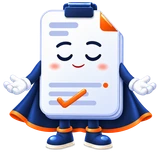
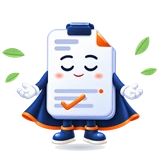
Dex: your new 10-pose set; four new moods (confused, idea, reassure, encourage) placed on matching pages

diff --git a/src/content/guide.ts b/src/content/guide.ts
@@ -4,13 +4,25 @@
  * Dex is not a chat window and answers nothing: each page gets one fixed line of 8 words at most and
  * one mood. The rules, each there because the opposite would hurt a seller:
  * - He never cheers on a page where a seller may be reading bad news: the case, the decoder's result,
- *   the dashboard, the vault, billing and sign-in. Those pages only ever get calm or explaining.
+ *   the dashboard, the vault, billing and sign-in. Those pages never get happy, cheering, idea or
+ *   encourage. Confused is only for our own failures (a save or a decode that did not work), never
+ *   for anything Amazon decided.
  * - A line never promises, predicts or says what Amazon will decide.
  * - A line states no fact: no price, number, time or policy. A fact in the corner would drift away
  *   from the page that owns it, and would repeat the page's own sentence to a screen reader.
  */
 
-export type GuideMood = "hello" | "happy" | "cheering" | "explaining" | "thinking" | "calm";
+export type GuideMood =
+  | "hello"
+  | "happy"
+  | "cheering"
+  | "explaining"
+  | "thinking"
+  | "calm"
+  | "confused"
+  | "idea"
+  | "reassure"
+  | "encourage";
 
 /** A small gesture that goes with a line: a nod to say "that step is done", a hop for a happy moment. */
 export type GuideMotion = "nod" | "hop";
@@ -33,7 +45,8 @@ export const SOBER_PREFIXES = [
   "/auth",
 ] as const;
 
-export const CHEERFUL: readonly GuideMood[] = ["happy", "cheering"];
+/** Moods that celebrate or push: never on a page where a seller may be reading bad news. */
+export const CHEERFUL: readonly GuideMood[] = ["happy", "cheering", "idea", "encourage"];
 
 /** Paths that never get a guide. */
 const NONE = ["/dev", "/api"] as const;
@@ -53,11 +66,11 @@ export const GUIDE = {
     { path: "/billing", mood: "explaining", line: "Your Pass and receipts are here." },
     { path: "/login", mood: "hello", line: "Welcome back." },
     { path: "/signup", mood: "hello", line: "Let us get you set up." },
-    { path: "/forgot-password", mood: "calm", line: "It happens. Reset it here." },
+    { path: "/forgot-password", mood: "reassure", line: "It happens. Reset it here." },
     { path: "/reset-password", mood: "calm", line: "Choose a new password." },
     { path: "/pricing", mood: "explaining", line: "Compare the plans, then choose." },
     { path: "/faq", mood: "thinking", line: "Looking for an answer?" },
-    { path: "/guides", mood: "thinking", line: "Read one guide at a time." },
+    { path: "/guides", mood: "idea", line: "Read one guide at a time." },
     { path: "/how-we-test", mood: "explaining", line: "Here is how we test." },
     { path: "/check-invoice", mood: "explaining", line: "Check an invoice before you send it." },
     { path: "/support", mood: "calm", line: "Questions? Write to us." },
@@ -84,7 +97,7 @@ export const SITUATIONS = {
   "decode.result": { mood: "calm", line: "Start with what Amazon asks for.", motion: "nod" },
   "decode.reply": { mood: "calm", line: "This is Amazon's reply. Read it closely.", motion: "nod" },
   "decode.scam": { mood: "calm", line: "Check this in Account Health first." },
-  "decode.error": { mood: "calm", line: "That did not work. Try again." },
+  "decode.error": { mood: "confused", line: "That did not work. Try again." },
   // the case
   "case.new": { mood: "explaining", line: "Paste the notice to begin." },
   "case.confirm": { mood: "explaining", line: "Check how I read it." },
@@ -93,14 +106,14 @@ export const SITUATIONS = {
   "case.response": { mood: "explaining", line: "Say it plainly, in your words." },
   "case.ready": { mood: "calm", line: "Read it once more, then send.", motion: "nod" },
   "case.reply": { mood: "explaining", line: "Paste Amazon's reply to continue." },
-  "case.waiting": { mood: "calm", line: "Waiting on Amazon. Take a breath." },
+  "case.waiting": { mood: "reassure", line: "Waiting on Amazon. Take a breath." },
   "case.gated": { mood: "calm", line: "This one needs professional help." },
-  "case.save_failed": { mood: "calm", line: "Your last change did not save." },
+  "case.save_failed": { mood: "confused", line: "Your last change did not save." },
   // the dashboard and the vault
   "dashboard.empty": { mood: "explaining", line: "No case yet. Paste a notice." },
   "vault.empty": { mood: "calm", line: "Nothing here yet. Take your time." },
   // pricing is not a page of bad news, so a warmer mood is fine once the buyer has agreed to the terms
-  "pricing.ready": { mood: "happy", line: "Ready when you are.", motion: "nod" },
+  "pricing.ready": { mood: "encourage", line: "Ready when you are.", motion: "nod" },
 } satisfies Record<string, GuideEntry>;
 
 export type SituationKey = keyof typeof SITUATIONS;
@@ -141,4 +154,4 @@ export function guideFor(pathname: string | null, situation?: string | null): Gu
 
 /** The picture widths we ship for every mood (see scripts/build-mascot-set.mjs). */
 export const GUIDE_WIDTHS = [160, 320, 640] as const;
-export const GUIDE_ASPECT = { width: 1170, height: 1113 } as const;
+export const GUIDE_ASPECT = { width: 1000, height: 979 } as const;

diff --git a/src/content/__tests__/guide.test.ts b/src/content/__tests__/guide.test.ts
@@ -12,7 +12,18 @@ import {
   type GuideMood,
 } from "../guide";
 
-const MOODS: GuideMood[] = ["hello", "happy", "cheering", "explaining", "thinking", "calm"];
+const MOODS: GuideMood[] = [
+  "hello",
+  "happy",
+  "cheering",
+  "explaining",
+  "thinking",
+  "calm",
+  "confused",
+  "idea",
+  "reassure",
+  "encourage",
+];
 const lines = [
   ...GUIDE.routes.map((r) => r.line),
   GUIDE.fallback.line,

diff --git a/src/components/dex3d/Dex3D.tsx b/src/components/dex3d/Dex3D.tsx
@@ -12,6 +12,10 @@ export const POSE_FOR: Record<GuideMood, DexMood> = {
   explaining: "explain",
   thinking: "think",
   calm: "calm",
+  confused: "think",
+  idea: "hello",
+  reassure: "calm",
+  encourage: "hello",
 };
 
 /**
